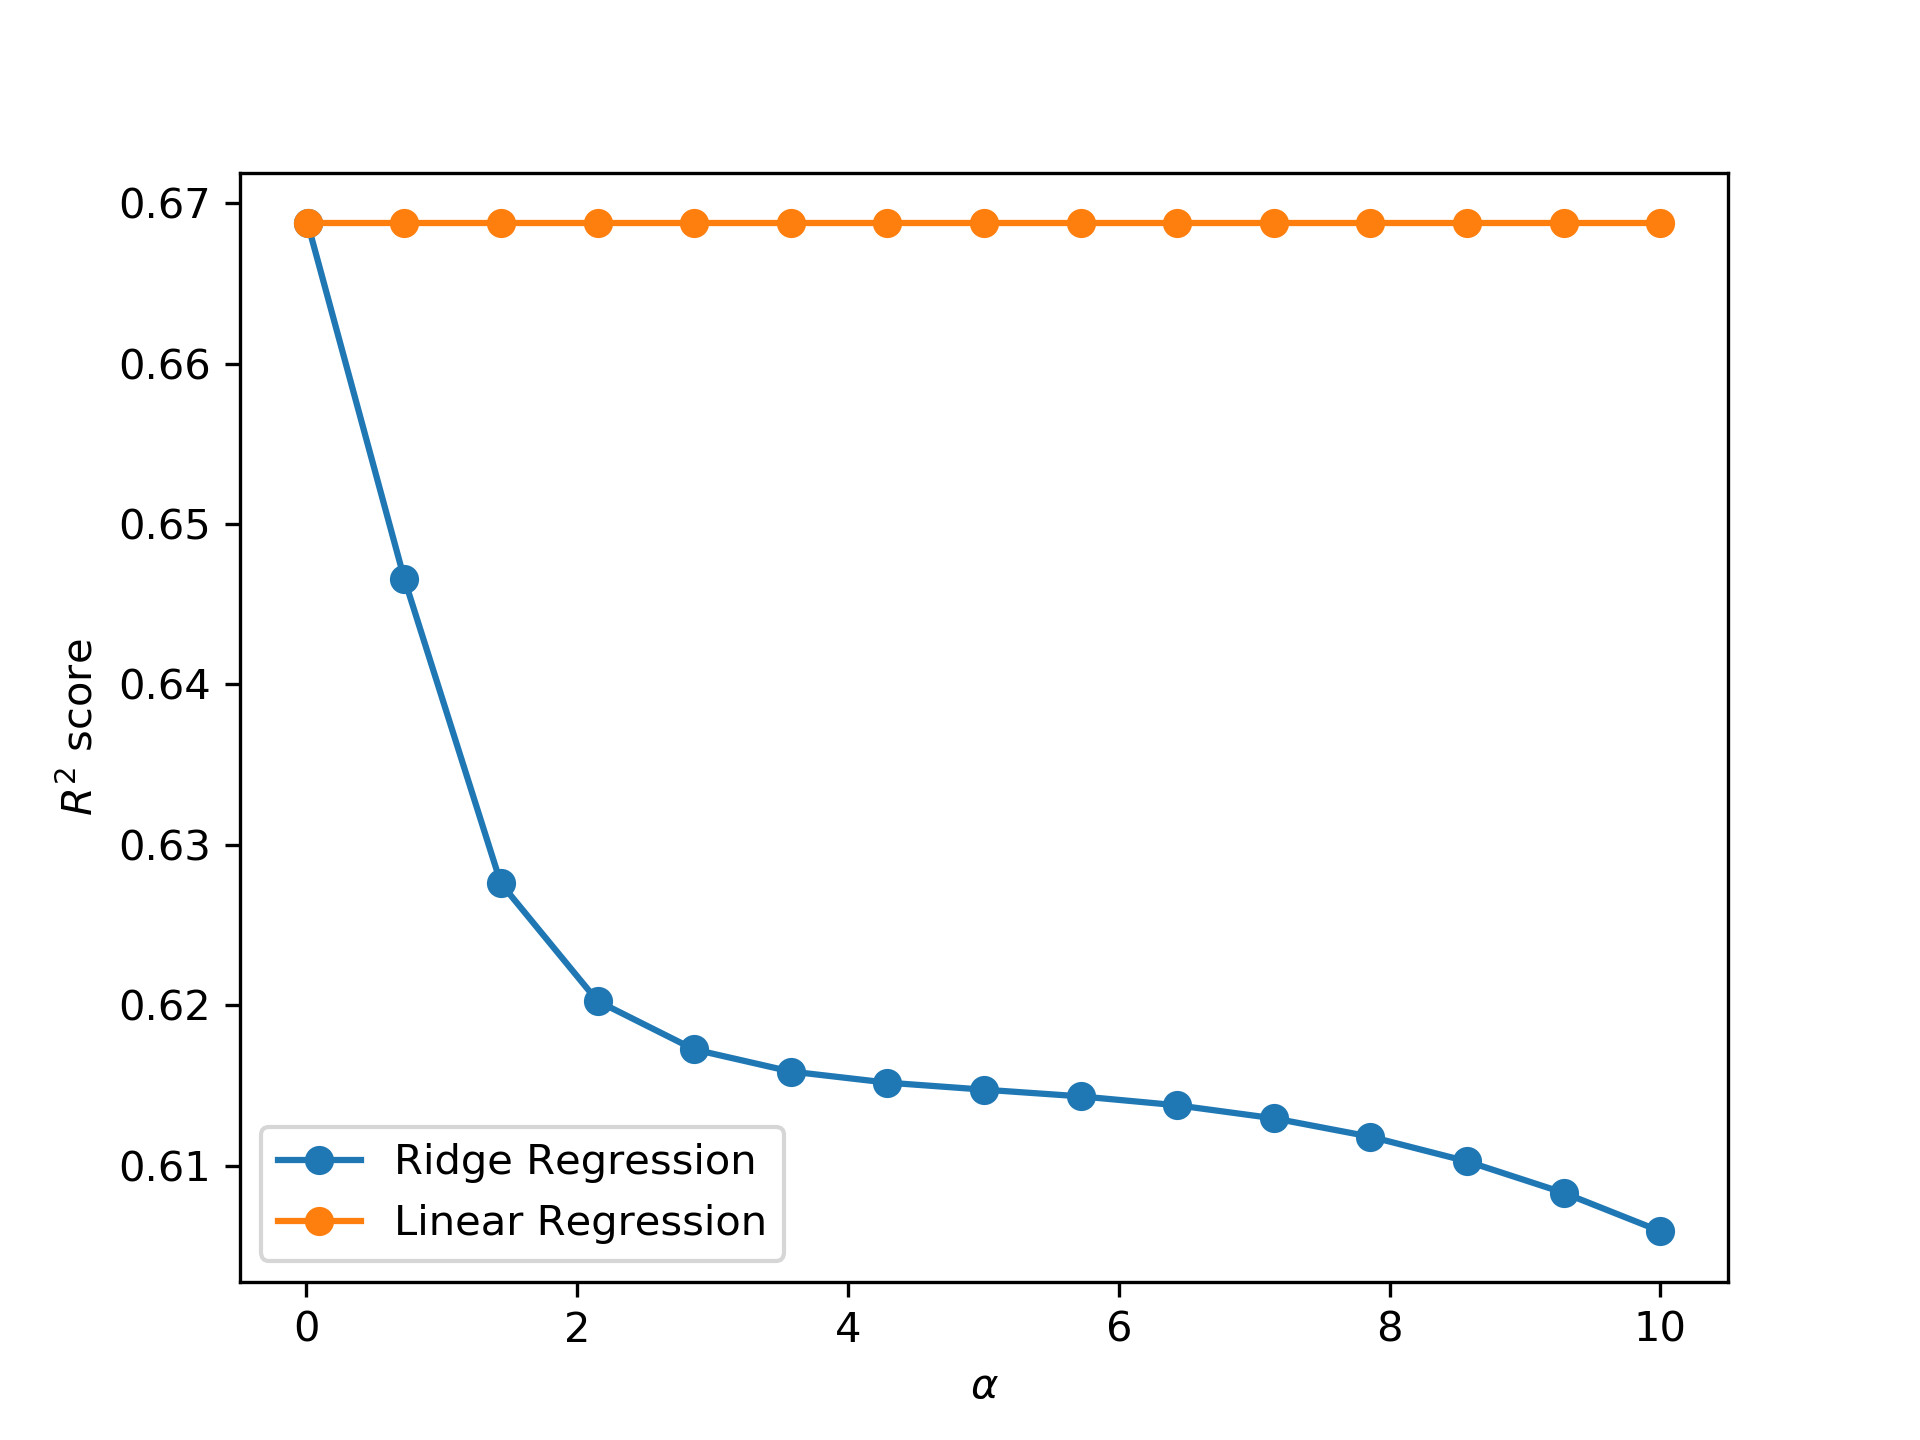
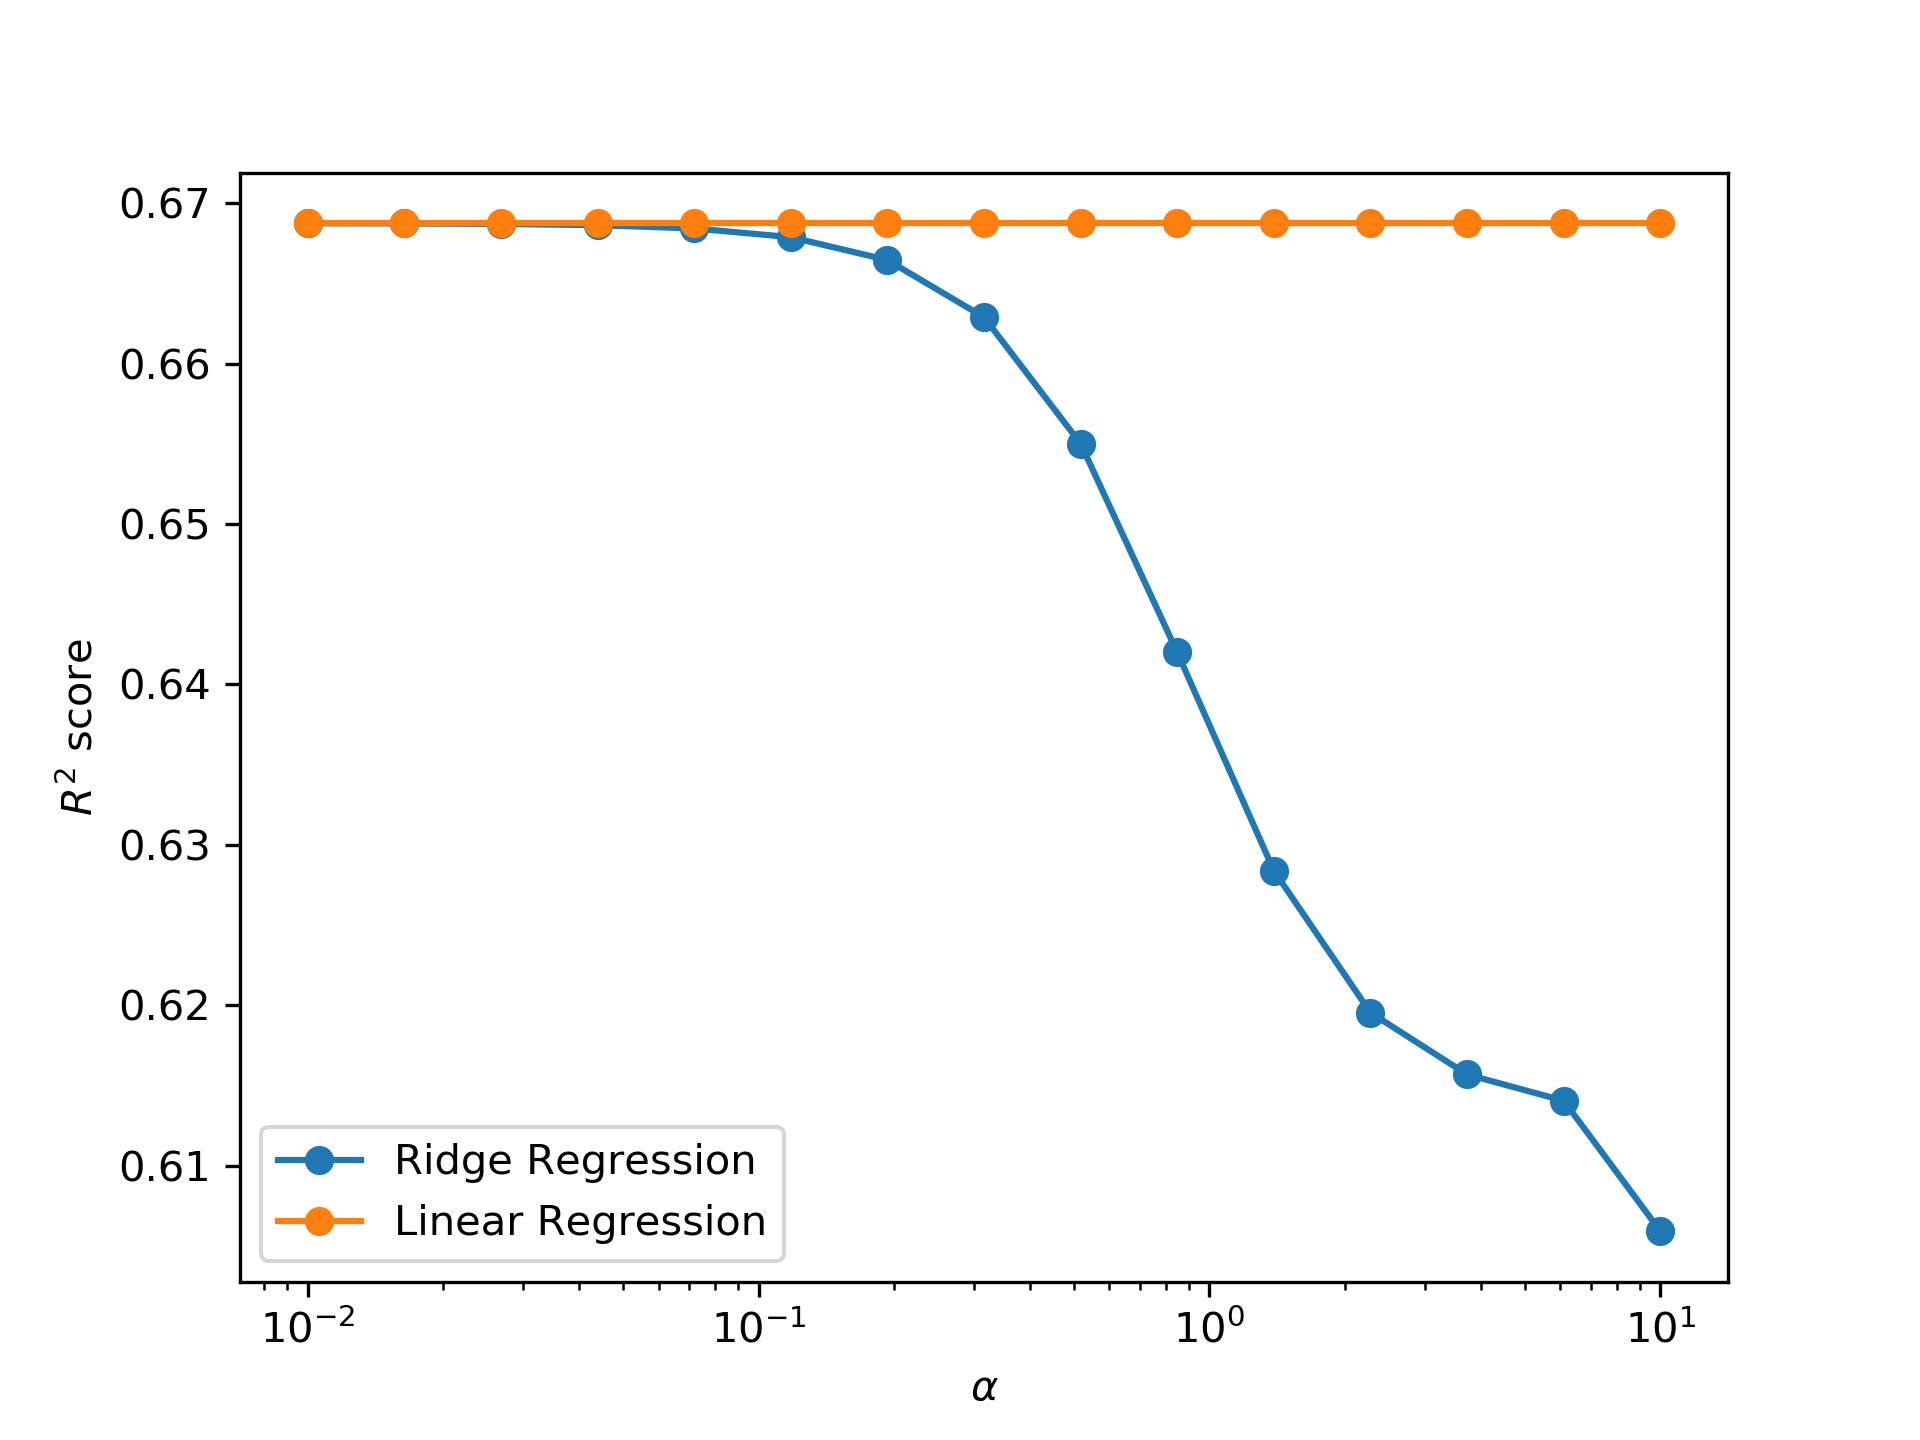
fixed p2 according to new piazza post on logx

diff --git a/homeworks/HW3/model_performance.py b/homeworks/HW3/model_performance.py
@@ -21,7 +21,7 @@ score=LRModel.score(X_test,y_test)
 
 RRModel=reg.RidgeRegression()
 
-for alpha in np.linspace(10**(-2),10,15):
+for alpha in 10**np.linspace(-2,1,15):
     RRModel.set_params(alpha=alpha)
     RRModel.fit(X_train, y_train);
     scoreRR.append([alpha,RRModel.score(X_test,y_test)])
@@ -30,8 +30,8 @@ for alpha in np.linspace(10**(-2),10,15):
 scoreRR=np.array(scoreRR)
 scoreLR=np.array(scoreLR)
 
-plt.plot(scoreRR[:,0],scoreRR[:,1],'o-',label='Ridge Regression')
-plt.plot(scoreLR[:,0],scoreLR[:,1],'o-',label='Linear Regression')
+plt.semilogx(scoreRR[:,0],scoreRR[:,1],'o-',label='Ridge Regression')
+plt.semilogx(scoreLR[:,0],scoreLR[:,1],'o-',label='Linear Regression')
 plt.xlabel(r'$\alpha$')
 plt.ylabel(r'$R^2$ score')
 plt.legend()
